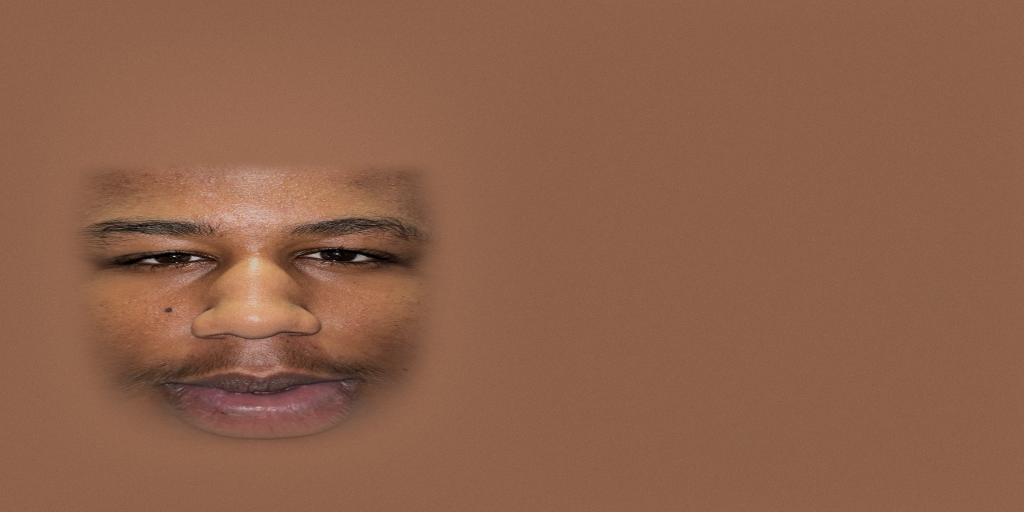
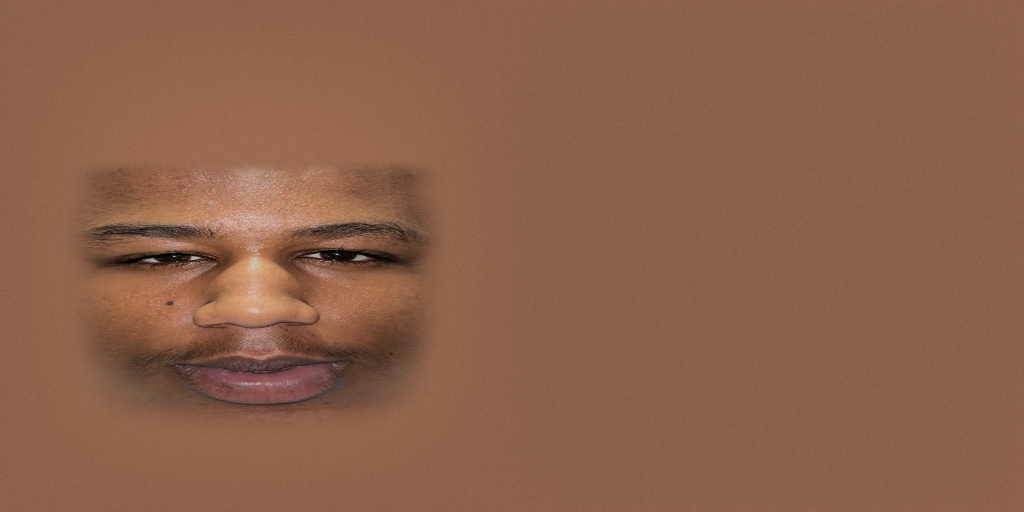
Per-deacon head shapes from the photos (jaw, chin, cheeks, natural noses), smoother head mesh, tall wound turbans, re-projected faces
Claude-Session: https://claude.ai/code/session_017jphmVFErnptw1ZpXjcDtW

Changed region(s): [[0.125, 0.5625, 0.4062, 0.875], [0.0938, 0.3438, 0.4062, 0.5625], [0.3125, 0.8125, 0.3438, 0.8438]]

diff --git a/src/char/human.ts b/src/char/human.ts
@@ -7,7 +7,7 @@ export type Outfit = 'netela' | 'netelaPuffer' | 'deacon' | 'casual' | 'winter' 
 export type HairStyle = 'fade' | 'short' | 'grey' | 'bald' | 'afro' | 'covered';
 export interface HumanOpts {
   seed?: number; height?: number; build?: number; skin?: number; outfit?: Outfit; hair?: HairStyle; moustache?: boolean; beard?: number | null;
-  female?: boolean; photo?: HTMLImageElement | null; robeColor?: number; shirt?: number; pants?: number; headScale?: number; turban?: boolean; cap?: number | null; toque?: number | null; lod?: boolean;
+  female?: boolean; face?: FaceShape | null; photo?: HTMLImageElement | null; robeColor?: number; shirt?: number; pants?: number; headScale?: number; turban?: boolean; cap?: number | null; toque?: number | null; lod?: boolean;
 }
 
 const BONES = ['hips', 'spine', 'chest', 'neck', 'head', 'shoulderL', 'upperArmL', 'foreArmL', 'handL', 'shoulderR', 'upperArmR', 'foreArmR', 'handR', 'upLegL', 'legL', 'footL', 'upLegR', 'legR', 'footR', 'clothB', 'clothL', 'clothR'] as const;
@@ -119,26 +119,30 @@ function hairline(dx: number, ny: number, dz: number, style: HairStyle) {
   return (back + (side - back) * sb) * (1 - fs) + front * fs;
 }
 
-function headGeometry(female: boolean) {
-  const g = new THREE.SphereGeometry(1, 44, 32); const p = g.attributes.position; const v = new THREE.Vector3();
+/** per-person head shape, read off the front and profile photos (1 = the default head) */
+export interface FaceShape { width?: number; jaw?: number; chin?: number; cheek?: number; nose?: number; noseW?: number; lips?: number; brow?: number }
+function headGeometry(female: boolean, fs: FaceShape | null = null) {
+  const F = { width: 1, jaw: 1, chin: 1, cheek: 0, nose: 0.6, noseW: 1.15, lips: 1, brow: 1, ...(fs ?? {}) };
+  const g = new THREE.SphereGeometry(1, fs ? 88 : 44, fs ? 64 : 32); const p = g.attributes.position; const v = new THREE.Vector3();
   const bump = (d: THREE.Vector3, cx: number, cy: number, cz: number, s: number) => Math.exp(-((d.x - cx) ** 2 + (d.y - cy) ** 2 + (d.z - cz) ** 2) / (2 * s * s));
   for (let i = 0; i < p.count; i++) {
-    v.fromBufferAttribute(p, i).normalize(); const d = v.clone(); let rx = 0.068, ry = 0.118, rz = 0.094;
+    v.fromBufferAttribute(p, i).normalize(); const d = v.clone(); let rx = 0.068 * F.width, ry = 0.118, rz = 0.094;
     // slim oval face: jaw tapers to a defined chin
-    const jaw = smooth(-0.05, -0.95, d.y); rx *= 1 + 0.07 * Math.exp(-((d.y + 0.72) ** 2) / 0.05) * (d.z > -0.2 ? 1 : 0.3); rx *= 1 + 0.12 * smooth(-0.1, 0.5, d.y) * smooth(0.75, 0.1, d.z); rx *= 1 + 0.06 * Math.exp(-((d.y + 0.5) ** 2) / 0.03) * smooth(0.5, -0.1, d.z); rz *= 1 + 0.05 * smooth(0.2, 0.8, d.y) * smooth(-0.2, 0.6, d.z); rz *= 1 - 0.1 * jaw;
+    const jaw = smooth(-0.05, -0.95, d.y); rx *= 1 + 0.07 * Math.exp(-((d.y + 0.72) ** 2) / 0.05) * (d.z > -0.2 ? 1 : 0.3); rx *= 1 + 0.12 * smooth(-0.1, 0.5, d.y) * smooth(0.75, 0.1, d.z); rx *= 1 + 0.06 * Math.exp(-((d.y + 0.5) ** 2) / 0.03) * smooth(0.5, -0.1, d.z); rz *= 1 + 0.05 * smooth(0.2, 0.8, d.y) * smooth(-0.2, 0.6, d.z); rz *= 1 - 0.1 * jaw; rx *= 1 + (F.jaw - 1) * smooth(0.05, -0.6, d.y) * (d.z > -0.3 ? 1 : 0.35);
     if (d.z < 0) { rz *= 1 + 0.07 * smooth(0, -1, d.z) * smooth(-0.6, 0.5, d.y); }
-    let x = d.x * rx, y = d.y * ry, z = d.z * rz;
+    let x = d.x * rx, y = d.y * ry * (1 + (F.chin - 1) * smooth(-0.45, -1, d.y)), z = d.z * rz;
     const front = smooth(0.2, 0.8, d.z);
     z *= 1 - 0.035 * front;                                                    // flatter facial plane
     z += 0.0045 * (bump(d, 0.55, -0.2, 0.78, 0.2) + bump(d, -0.55, -0.2, 0.78, 0.2)); // high cheekbones
     x += 0.004 * (bump(d, 0.64, -0.2, 0.7, 0.2) - bump(d, -0.64, -0.2, 0.7, 0.2));
-    z += 0.0045 * bump(d, 0, 0.17, 0.95, 0.26) * (female ? 0.4 : 1);            // brow
+    z += 0.0045 * F.brow * bump(d, 0, 0.17, 0.95, 0.26) * (female ? 0.4 : 1);            // brow
+    z += 0.006 * F.cheek * (bump(d, 0.5, -0.45, 0.72, 0.24) + bump(d, -0.5, -0.45, 0.72, 0.24)); x += 0.005 * F.cheek * (bump(d, 0.7, -0.45, 0.55, 0.26) - bump(d, -0.7, -0.45, 0.55, 0.26));   // fuller lower cheeks
     z -= 0.0065 * (bump(d, 0.41, 0.0, 0.9, 0.13) + bump(d, -0.41, 0.0, 0.9, 0.13)); // eye sockets
     // straight nose: ridge growing to the tip, flared base
-    const ridge = Math.exp(-(d.x * d.x) / (2 * 0.07 * 0.07)) * smooth(0.14, -0.27, d.y) * smooth(-0.42, -0.3, d.y) * front;
-    z += 0.023 * ridge; z += 0.008 * Math.exp(-(d.x * d.x) / (2 * 0.2 * 0.2)) * bump(d, 0, -0.31, 0.95, 0.09);
+    const nsg = 0.07 * (0.75 + 0.25 * F.noseW); const ridge = Math.exp(-(d.x * d.x) / (2 * nsg * nsg)) * smooth(0.14, -0.27, d.y) * smooth(-0.42, -0.3, d.y) * front;
+    z += 0.023 * F.nose * ridge; z += 0.0075 * (0.5 + 0.5 * F.nose) * Math.exp(-(d.x * d.x) / (2 * (0.2 * F.noseW) ** 2)) * bump(d, 0, -0.31, 0.95, 0.09);
     // full lips
-    z += 0.0085 * Math.exp(-(d.x * d.x) / (2 * 0.2 * 0.2)) * (Math.exp(-((d.y + 0.57) ** 2) / (2 * 0.035 ** 2)) + 1.15 * Math.exp(-((d.y + 0.68) ** 2) / (2 * 0.045 ** 2))) * front;
+    z += 0.0085 * F.lips * Math.exp(-(d.x * d.x) / (2 * 0.2 * 0.2)) * (Math.exp(-((d.y + 0.57) ** 2) / (2 * 0.035 ** 2)) + 1.15 * Math.exp(-((d.y + 0.68) ** 2) / (2 * 0.045 ** 2))) * front;
     z -= 0.003 * Math.exp(-(d.x * d.x) / (2 * 0.2 * 0.2)) * Math.exp(-((d.y + 0.62) ** 2) / (2 * 0.012 ** 2)) * front;
     z += 0.005 * bump(d, 0, -0.88, 0.5, 0.18);       // chin
     p.setXYZ(i, x, y + 0.118, z + 0.012);
@@ -181,7 +185,7 @@ export class Human {
   bones = {} as Record<BoneName, THREE.Bone>;
   skeleton!: THREE.Skeleton;
   body!: THREE.SkinnedMesh; cloth: THREE.SkinnedMesh | null = null; head!: THREE.Mesh;
-  opts: Required<Omit<HumanOpts, 'beard' | 'cap' | 'toque' | 'robeColor' | 'photo'>> & { photo: HTMLImageElement | null; beard: number | null; cap: number | null; toque: number | null; robeColor: number | null };
+  opts: Required<Omit<HumanOpts, 'beard' | 'cap' | 'toque' | 'robeColor' | 'photo' | 'face'>> & { face: FaceShape | null; photo: HTMLImageElement | null; beard: number | null; cap: number | null; toque: number | null; robeColor: number | null };
   // animation state
   phase = 0; speed = 0; action = ''; actionT = 0; actionDur = 1; actionHold = false; private actW = 0; private prevAction = '';
   private clothVel = new THREE.Vector3(); private clothAng = new THREE.Vector2(); private clothAngV = new THREE.Vector2(); private lastPos = new THREE.Vector3(); private lastYaw = 0;
@@ -195,7 +199,7 @@ export class Human {
     this.opts = {
       seed, height: o.height ?? 1.8, build: o.build ?? 1, skin: o.skin ?? 0x5a3420, outfit, hair: o.hair ?? 'short', moustache: o.moustache ?? false, beard: o.beard ?? null,
       female: o.female ?? false, robeColor: o.robeColor ?? null, shirt: o.shirt ?? [0x2a2f38, 0x5a6a78, 0x7a3a34, 0x3a5a48, 0xd8d4c8, 0x444a66][Math.floor(r() * 6)], pants: o.pants ?? [0x23262c, 0x2a3348, 0x3a3a3c, 0x4a4234][Math.floor(r() * 4)],
-      photo: o.photo ?? null, headScale: o.headScale ?? 1, turban: o.turban ?? false, cap: o.cap ?? null, toque: o.toque ?? null, lod: o.lod ?? false,
+      face: o.face ?? null, photo: o.photo ?? null, headScale: o.headScale ?? 1, turban: o.turban ?? false, cap: o.cap ?? null, toque: o.toque ?? null, lod: o.lod ?? false,
     };
     this.height = this.opts.height;
     this.build();
@@ -254,7 +258,7 @@ export class Human {
 
     // ---- head ----
     const hs = o.headScale;
-    this.head = new THREE.Mesh(headGeometry(o.female), new THREE.MeshStandardMaterial({ map: faceTexture({ skin: o.skin, hair: o.hair, moustache: o.moustache, female: o.female, seed: o.seed, beard: o.beard, photo: o.photo }), roughness: 0.58 }));
+    this.head = new THREE.Mesh(headGeometry(o.female, o.face), new THREE.MeshStandardMaterial({ map: faceTexture({ skin: o.skin, hair: o.hair, moustache: o.moustache, female: o.female, seed: o.seed, beard: o.beard, photo: o.photo }), roughness: 0.58 }));
     this.head.castShadow = true; this.head.scale.setScalar(hs); this.bones.head.add(this.head);
     const earM = new THREE.MeshStandardMaterial({ color: skin, roughness: 0.65 });
     for (const s of [1, -1]) { const e = new THREE.Mesh(new THREE.SphereGeometry(0.024, 10, 8), earM); e.scale.set(0.4, 1.3, 0.85); e.position.set(s * 0.076 * hs, 0.1 * hs, -0.004); e.rotation.y = s * 0.35; this.bones.head.add(e); }
@@ -398,15 +402,20 @@ export class Human {
 
 /** Isaac — the player. Proportions and palette from reference/isaac/*. */
 export function makeIsaac(outfit: Outfit = 'netela', moustache = true, photo: HTMLImageElement | null = null): Human {
-  return new Human({ seed: 11, height: 1.84, build: 0.9, skin: photo ? 0xa2604a : 0x7a4a30, outfit, hair: 'fade', moustache, photo, shirt: 0x1d1e22, pants: 0x1f232b, toque: outfit === 'winter' ? 0x1c1c20 : null });
+  return new Human({ seed: 11, height: 1.84, build: 0.9, skin: photo ? 0xa2604a : 0x7a4a30, outfit, hair: 'fade', moustache, photo, face: { width: 0.97, jaw: 0.9, chin: 1.08, cheek: 0, nose: 0.5, noseW: 1.1, lips: 0.9 }, shirt: 0x1d1e22, pants: 0x1f232b, toque: outfit === 'winter' ? 0x1c1c20 : null });
 }
 
 /** Deacon Zekariah: his own photographed face (public/char/zekariah_face.png), rounder afro, a little shorter than Isaac */
 export function makeZek(outfit: Outfit = 'netela', photo: HTMLImageElement | null = null): Human {
-  return new Human({ seed: 23, height: 1.78, build: 1.0, skin: photo ? 0xad775b : 0x8a5a3a, outfit, hair: 'afro', moustache: false, photo, shirt: 0xf2f0ea, pants: 0x1b1d24 });
+  return new Human({ seed: 23, height: 1.78, build: 1.0, skin: photo ? 0xad775b : 0x8a5a3a, outfit, hair: 'afro', moustache: false, photo, face: { width: 1.1, jaw: 1.22, chin: 1.02, cheek: 0.7, nose: 0.42, noseW: 1.55, lips: 1.05, brow: 0.8 }, shirt: 0xf2f0ea, pants: 0x1b1d24 });
 }
 
 /** a young deacon with a white turban (Nigerte, Nebs): photographed face, own height and skin tone */
-export function makeDeacon(outfit: Outfit, photo: HTMLImageElement | null, seed: number, height: number, skin: number): Human {
-  return new Human({ seed, height, build: 0.92, skin, outfit, hair: 'covered', turban: true, moustache: false, photo, shirt: 0xf2f0ea, pants: 0xf0eee6, headScale: 1.06 });
+export function makeDeacon(outfit: Outfit, photo: HTMLImageElement | null, seed: number, height: number, skin: number, face: FaceShape | null = null, turbanH = 1): Human {
+  const h = new Human({ seed, height, build: 0.92, skin, outfit, hair: 'covered', turban: true, moustache: false, photo, face: face ?? {}, shirt: 0xf2f0ea, pants: 0xf0eee6, headScale: 1.06 });
+  // the tall wound turban from the photos: a full dome of wrapped bands sitting low on the brow, over the small priest-style one
+  const tm = new THREE.MeshStandardMaterial({ color: 0xf4f2ea, roughness: 0.95 }); const tg = new THREE.Group(); const H = 0.085 * turbanH;
+  const dome = new THREE.Mesh(new THREE.SphereGeometry(0.098, 28, 18), tm); dome.scale.set(1.02, H / 0.098 * 1.25, 1.14); dome.position.set(0, 0.2 + H * 0.55, -0.008); tg.add(dome);
+  for (let k = 0; k < 6; k++) { const t = k / 5; const band = new THREE.Mesh(new THREE.TorusGeometry(0.093 * (1 - 0.22 * t * t), 0.017, 8, 30), tm); band.rotation.set(Math.PI / 2 + (k % 2 ? 0.16 : -0.14), 0, k * 0.5); band.scale.set(1.02, 1.14, 1); band.position.set(0, 0.185 + t * H * 1.25, -0.008); tg.add(band); }
+  tg.traverse((o) => { (o as THREE.Mesh).castShadow = true; }); h.bones.head.add(tg); return h;
 }

diff --git a/src/duo.ts b/src/duo.ts
@@ -44,7 +44,7 @@ export class Duo {
     if (e.code.startsWith('Arrow')) { if (this.codeT <= 0) this.code = []; this.code.push(e.code.slice(5)); this.codeT = 2.5; if (this.code.length > 4) this.code.shift(); if (this.code.join() === 'Up,Up,Down,Left') { this.code = []; this.setRapture(!this.rapture); } }
   }
   make(who: Who, o: Outfit): Human {
-    const g = this.g; const h = who === 'isaac' ? makeIsaac(o, g.save.data.moustache, g.facePhoto) : who === 'zek' ? makeZek(o, g.zekPhoto) : who === 'nigerte' ? makeDeacon(o, g.photos.nigerte ?? null, 31, 1.5, 0x6f4d40) : makeDeacon(o, g.photos.nebs ?? null, 37, 1.6, 0x5e463c);
+    const g = this.g; const h = who === 'isaac' ? makeIsaac(o, g.save.data.moustache, g.facePhoto) : who === 'zek' ? makeZek(o, g.zekPhoto) : who === 'nigerte' ? makeDeacon(o, g.photos.nigerte ?? null, 31, 1.5, 0x90644f, { width: 1.14, jaw: 1.3, chin: 0.9, cheek: 1.4, nose: 0.4, noseW: 1.5, lips: 1.05, brow: 0.6 }, 1.15) : makeDeacon(o, g.photos.nebs ?? null, 37, 1.6, 0x80604f, { width: 0.95, jaw: 0.8, chin: 1.12, cheek: 0.1, nose: 0.45, noseW: 1.15, lips: 0.9, brow: 0.6 }, 1.75);
     if (who === 'nigerte' && o !== 'deacon') { const head = h.bones.head; h.root.traverse((ob) => { const m = (ob as THREE.Mesh).material as THREE.MeshStandardMaterial | undefined; if (!m || !m.color) return; let p: THREE.Object3D | null = ob; while (p) { if (p === head) return; p = p.parent; } const c = m.color; if (c.r > 0.75 && c.g > 0.75 && c.b > 0.7) { const mm = m.clone(); mm.color.setHex(0x8cc9ea); (ob as THREE.Mesh).material = mm; } }); }   // his sky-blue gabi
     if (who === 'zek' && this.demon) this.demonize(h, true); return h;
   }

diff --git a/tools/make_face.py b/tools/make_face.py
@@ -15,7 +15,9 @@ CFG = {'isaac': ('reference/isaac/isaac_01.webp', 147, 413.5, 691.0, [(730, 790,
        'nigerte': ('reference/deacons/nigerte_front.jpg', 360, 755.0, 930.0, [(1080, 1160, 480, 560), (1080, 1160, 950, 1030), (730, 790, 650, 850)]),
        'nebs': ('reference/deacons/nebs_front.jpg', 315, 748.0, 1102.0, [(1330, 1400, 520, 600), (1330, 1400, 900, 980), (935, 975, 650, 850)])}[WHO]
 PXM = CFG[1] / 0.063; CX_PX, EYE_PY = CFG[2], CFG[3]
+EXTRA = {'isaac': (1.04, 1.0), 'zekariah': (1.14, 1.0), 'nigerte': (0.98, 1.45), 'nebs': (0.96, 1.75)}[WHO]; SY, GAIN = EXTRA
 src = np.asarray(Image.open(CFG[0]).convert('RGB')).astype(np.float32)
+src = np.clip(src * (GAIN if WHO in ('nigerte', 'nebs') else 1.0), 0, 255)
 sh, sw = src.shape[:2]
 def sample(px, py):
     x0 = np.clip(np.floor(px).astype(int), 0, sw - 2); y0 = np.clip(np.floor(py).astype(int), 0, sh - 2); fx = np.clip(px - x0, 0, 1)[..., None]; fy = np.clip(py - y0, 0, 1)[..., None]
@@ -23,14 +25,14 @@ def sample(px, py):
 u = (np.arange(W) + 0.5) / W; v = (np.arange(H) + 0.5) / H; U, V = np.meshgrid(u, v)
 ny = np.cos(V * math.pi); sn = np.sin(V * math.pi); ph = U * 2 * math.pi; dx = -np.cos(ph) * sn; dz = np.sin(ph) * sn
 x = dx * RX; y = ny * RY + CY
-px = CX_PX + x * PXM; py = EYE_PY - (y - CY) * PXM
+px = CX_PX + x * PXM; py = EYE_PY - (y - CY) * PXM * SY
 col = sample(px, py)
 # average skin tone from the cheeks and forehead
 skin = np.concatenate([src[a:b, c:d].reshape(-1, 3) for a, b, c, d in CFG[4]]).mean(0)
 ss = lambda a, b, t: np.clip((t - a) / (b - a), 0, 1) ** 2 * (3 - 2 * np.clip((t - a) / (b - a), 0, 1))
 alpha = ss(0.30, 0.62, dz)                              # front of the head only
 alpha *= 1 - ss(0.46, 0.56, ny)                         # stop below the hairline (hair is painted by the game)
-alpha *= ss(-0.985, -0.9, ny)                           # stop at the chin
+alpha *= ss(-0.92, -0.76, ny)                           # stop at the chin
 alpha *= 1 - ss(0.80, 0.97, np.abs(dx) / np.maximum(sn, 1e-4))   # fade toward the ears
 # gentle de-flash: pull highlights toward the mean so the game's own lighting can do the shading
 lum = col.mean(-1, keepdims=True); col = col - np.clip(lum - 205, 0, 60) * 0.55
